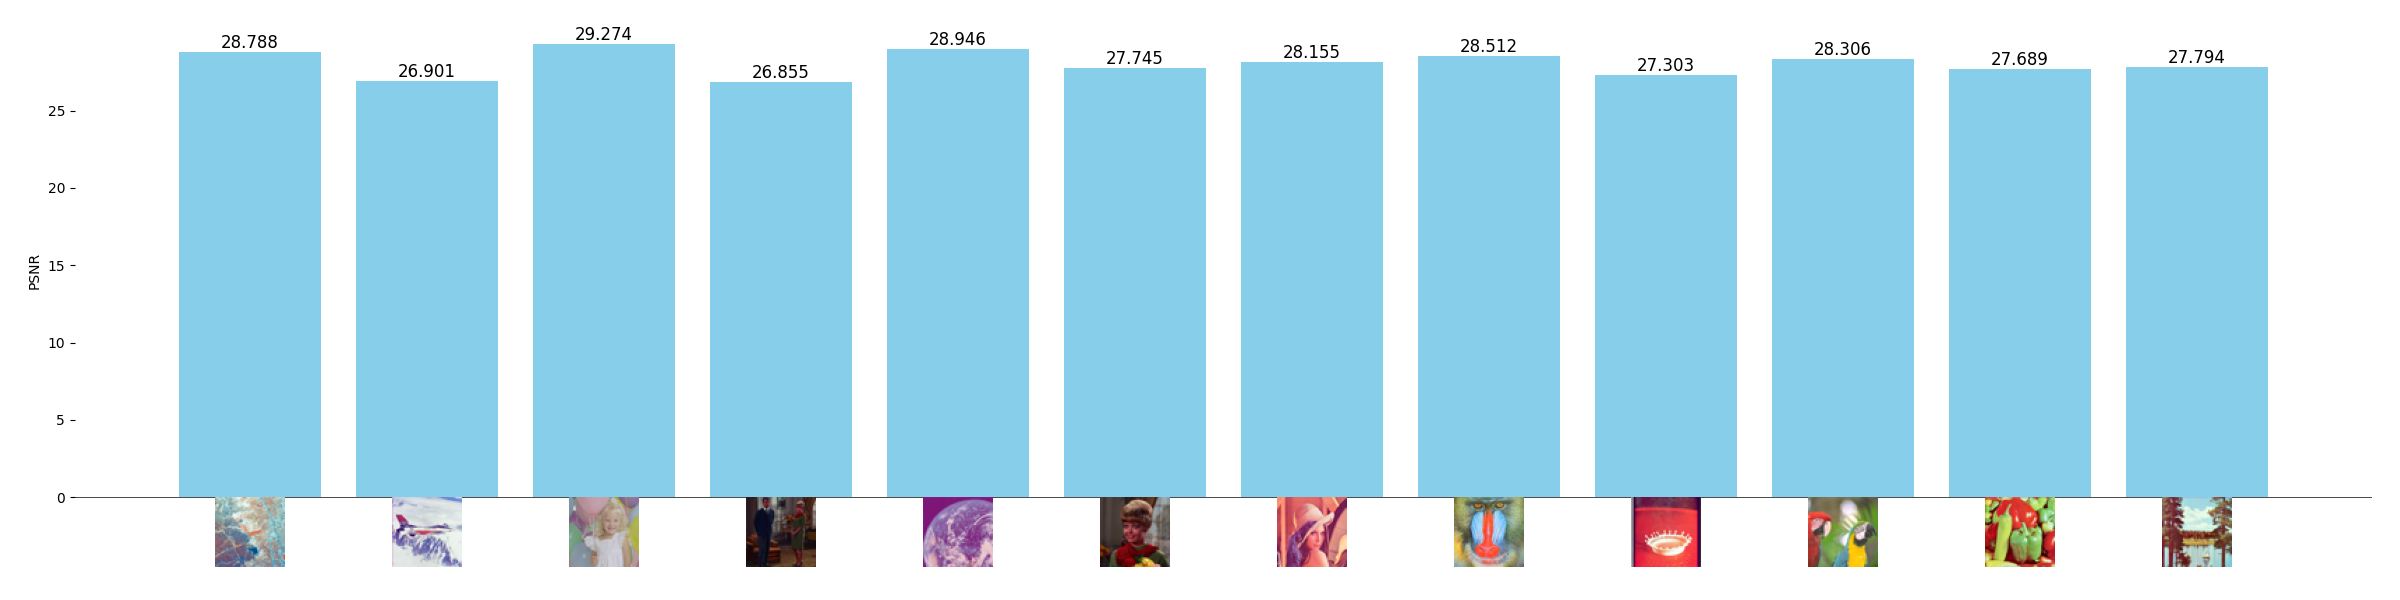
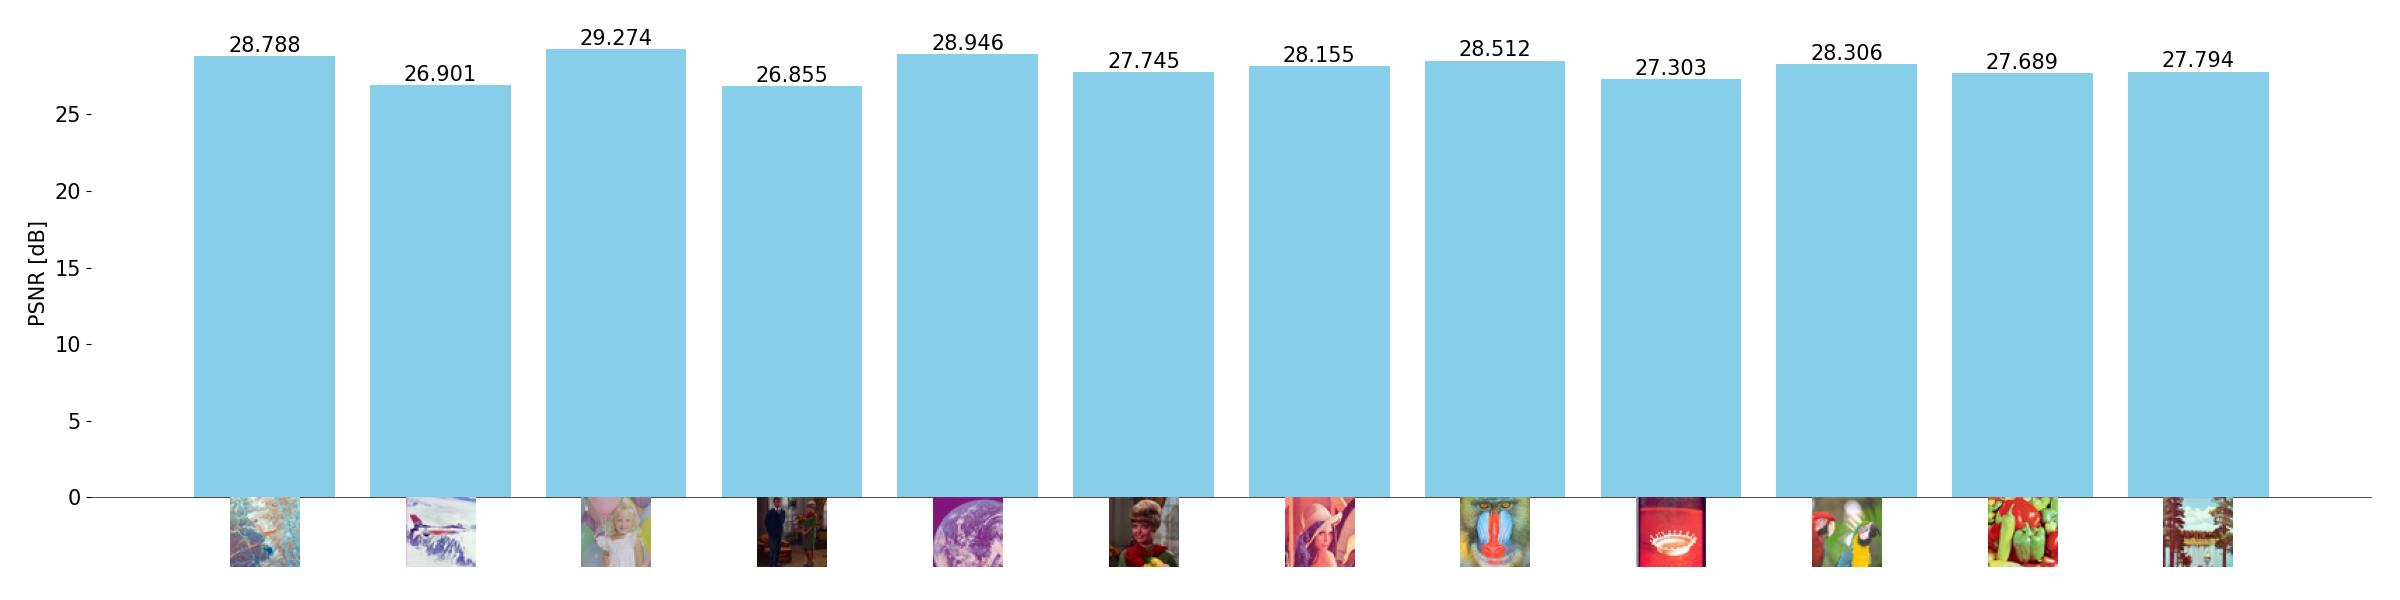
フォントサイズの変更

diff --git a/0_psnr_graph.py b/0_psnr_graph.py
@@ -4,11 +4,6 @@ import numpy as np
 import matplotlib.pyplot as plt
 from matplotlib.offsetbox import OffsetImage, AnnotationBbox
 
-# ==== 設定部分ここから ====
-dir1 = "exp_src/"
-dir2 = "48bit_alpha0.1/"
-# ==== 設定部分ここまで ====
-
 def calculate_psnr(image_path1, image_path2):
     #画像の読み込み
     original  = cv2.imread(image_path1) #元画像
@@ -49,97 +44,113 @@ def calculate_psnr(image_path1, image_path2):
     
     return PSNR
 
-valid_extensions = ['.png', '.jpg', '.jpeg', '.bmp']
-
 def get_base_name(filename):
     return os.path.splitext(filename)[0]
 
-files1 = [f for f in os.listdir(dir1) if os.path.splitext(f)[1].lower() in valid_extensions]
-files2 = [f for f in os.listdir(dir2) if os.path.splitext(f)[1].lower() in valid_extensions]
+# 設定パラメータを格納するリスト
+alpha_list = [0.1, 0.2]
+bit_list = [48, 400]
 
-base_dict_1 = {get_base_name(f): f for f in files1}
-base_dict_2 = {get_base_name(f): f for f in files2}
+# 設定パラメータごとに実行
+for alpha in alpha_list:
+    for bit in bit_list:
+        # ==== 設定部分ここから ====
+        dir1 = "exp_src/"
+        dir2 = f"{bit}bit_alpha{alpha}/"
+        # ==== 設定部分ここまで ====
 
-# ソートを大文字小文字を区別しない形に修正
-common_bases = sorted(set(base_dict_1.keys()) & set(base_dict_2.keys()), key=str.lower)
+        valid_extensions = ['.png', '.jpg', '.jpeg', '.bmp']
 
-psnr_values = []
-images_for_axis = []
+        files1 = [f for f in os.listdir(dir1) if os.path.splitext(f)[1].lower() in valid_extensions]
+        files2 = [f for f in os.listdir(dir2) if os.path.splitext(f)[1].lower() in valid_extensions]
 
-for base in common_bases:
-    img_path_1 = os.path.join(dir1, base_dict_1[base])
-    img_path_2 = os.path.join(dir2, base_dict_2[base])
+        base_dict_1 = {get_base_name(f): f for f in files1}
+        base_dict_2 = {get_base_name(f): f for f in files2}
 
-    # 画像読み込み
-    img1 = np.array(Image.open(img_path_1).convert("RGB"))
-    img2 = np.array(Image.open(img_path_2).convert("RGB"))
+        # ソートを大文字小文字を区別しない形に修正
+        common_bases = sorted(set(base_dict_1.keys()) & set(base_dict_2.keys()), key=str.lower)
 
-    # 画像サイズ揃え
-    if img1.shape != img2.shape:
-        img2 = np.array(Image.open(img_path_2).convert("RGB").resize((img1.shape[1], img1.shape[0])))
+        psnr_values = []
+        images_for_axis = []
 
-    # PSNR計算
-    psnr_value = calculate_psnr(img_path_1, img_path_2)
-    psnr_values.append(psnr_value)
+        for base in common_bases:
+            img_path_1 = os.path.join(dir1, base_dict_1[base])
+            img_path_2 = os.path.join(dir2, base_dict_2[base])
 
-    # X軸用に表示する画像(フォルダ1側の画像を使用)
-    axis_img = Image.open(img_path_1).convert("RGB")
-    images_for_axis.append(axis_img)
+            # 画像読み込み
+            img1 = np.array(Image.open(img_path_1).convert("RGB"))
+            img2 = np.array(Image.open(img_path_2).convert("RGB"))
 
-# 全画像の縦サイズを揃える(高さ固定)
-desired_height = 50
-resized_images_for_axis = []
-for img in images_for_axis:
-    aspect_ratio = img.width / img.height
-    new_width = int(desired_height * aspect_ratio)
-    img_resized = img.resize((new_width, desired_height))
-    resized_images_for_axis.append(img_resized)
+            # 画像サイズ揃え
+            if img1.shape != img2.shape:
+                img2 = np.array(Image.open(img_path_2).convert("RGB").resize((img1.shape[1], img1.shape[0])))
 
-images_for_axis = resized_images_for_axis
+            # PSNR計算
+            psnr_value = calculate_psnr(img_path_1, img_path_2)
+            psnr_values.append(psnr_value)
 
-# グラフ作成
-fig, ax = plt.subplots(figsize=(len(psnr_values)*2, 6))
+            # X軸用に表示する画像(フォルダ1側の画像を使用)
+            axis_img = Image.open(img_path_1).convert("RGB")
+            images_for_axis.append(axis_img)
 
-x_positions = np.arange(len(psnr_values))
-ax.bar(x_positions, psnr_values, color='skyblue')
+        # 全画像の縦サイズを揃える(高さ固定)
+        desired_height = 50
+        resized_images_for_axis = []
+        for img in images_for_axis:
+            aspect_ratio = img.width / img.height
+            new_width = int(desired_height * aspect_ratio)
+            img_resized = img.resize((new_width, desired_height))
+            resized_images_for_axis.append(img_resized)
 
-# 棒グラフ上部にpsnr値を表示
-for i, val in enumerate(psnr_values):
-    ax.text(i, val + 0.01, f"{val:.3f}", ha='center', va='bottom', fontsize=12)
+        images_for_axis = resized_images_for_axis
 
-# X軸目盛りは空白にする
-ax.set_xticks(x_positions)
-ax.set_xticklabels(["" for _ in x_positions])
+        # グラフ作成
+        fig, ax = plt.subplots(figsize=(len(psnr_values)*2, 6))
 
-ax.set_ylabel("PSNR")
+        x_positions = np.arange(len(psnr_values))
+        ax.bar(x_positions, psnr_values, color='skyblue')
 
-# グリッドとスパインを消す
-ax.grid(False)
-for spine in ax.spines.values():
-    spine.set_visible(False)
+        # 棒グラフ上部にpsnr値を表示
+        for i, val in enumerate(psnr_values):
+            ax.text(i, val + 0.01, f"{val:.3f}", ha='center', va='bottom', fontsize=15)
 
-# Y=0の位置にX軸線を描画
-ax.axhline(y=0, color='black', linewidth=0.5)
+        # X軸目盛りは空白にする
+        ax.set_xticks(x_positions)
+        ax.set_xticklabels(["" for _ in x_positions])
 
-# Y軸範囲設定：画像が表示されるよう、わずかに負の方向へ拡大
-min_y = -0.1
-max_y = max(psnr_values) + 0.1 if psnr_values else 1.0
-ax.set_ylim(min_y, max_y)
+        # Y軸ラベル設定
+        ax.set_ylabel("PSNR [dB]", fontsize=15)
 
-# 画像をX軸とぴったりくっつけるように配置
-# 上端がy=0になるように配置
-for i, img in enumerate(images_for_axis):
-    imagebox = OffsetImage(img, zoom=1.0)
-    ab = AnnotationBbox(imagebox, (i, 0),
-                        frameon=False,
-                        box_alignment=(0.5, 1.0))
-    ax.add_artist(ab)
+        # Y軸メモリのフォントサイズ設定
+        ax.tick_params(axis='y', labelsize=15)
 
-plt.tight_layout(pad=2.0)
-# plt.show()
+        # グリッドとスパインを消す
+        ax.grid(False)
+        for spine in ax.spines.values():
+            spine.set_visible(False)
 
-# 画像を保存
-output_path = f"{dir2.replace('/', '')}_psnr.png"
-plt.savefig(output_path)
-print(f"saved: {output_path}")
+        # Y=0の位置にX軸線を描画
+        ax.axhline(y=0, color='black', linewidth=0.5)
+
+        # Y軸範囲設定：画像が表示されるよう、わずかに負の方向へ拡大
+        min_y = -0.1
+        max_y = max(psnr_values) + 0.1 if psnr_values else 1.0
+        ax.set_ylim(min_y, max_y)
+
+        # 画像をX軸とぴったりくっつけるように配置
+        # 上端がy=0になるように配置
+        for i, img in enumerate(images_for_axis):
+            imagebox = OffsetImage(img, zoom=1.0)
+            ab = AnnotationBbox(imagebox, (i, 0),
+                                frameon=False,
+                                box_alignment=(0.5, 1.0))
+            ax.add_artist(ab)
+
+        plt.tight_layout(pad=2.0)
+        # plt.show()
+
+        # 画像を保存
+        output_path = f"{dir2.replace('/', '')}_psnr.png"
+        plt.savefig(output_path)
+        print(f"saved: {output_path}")
 
